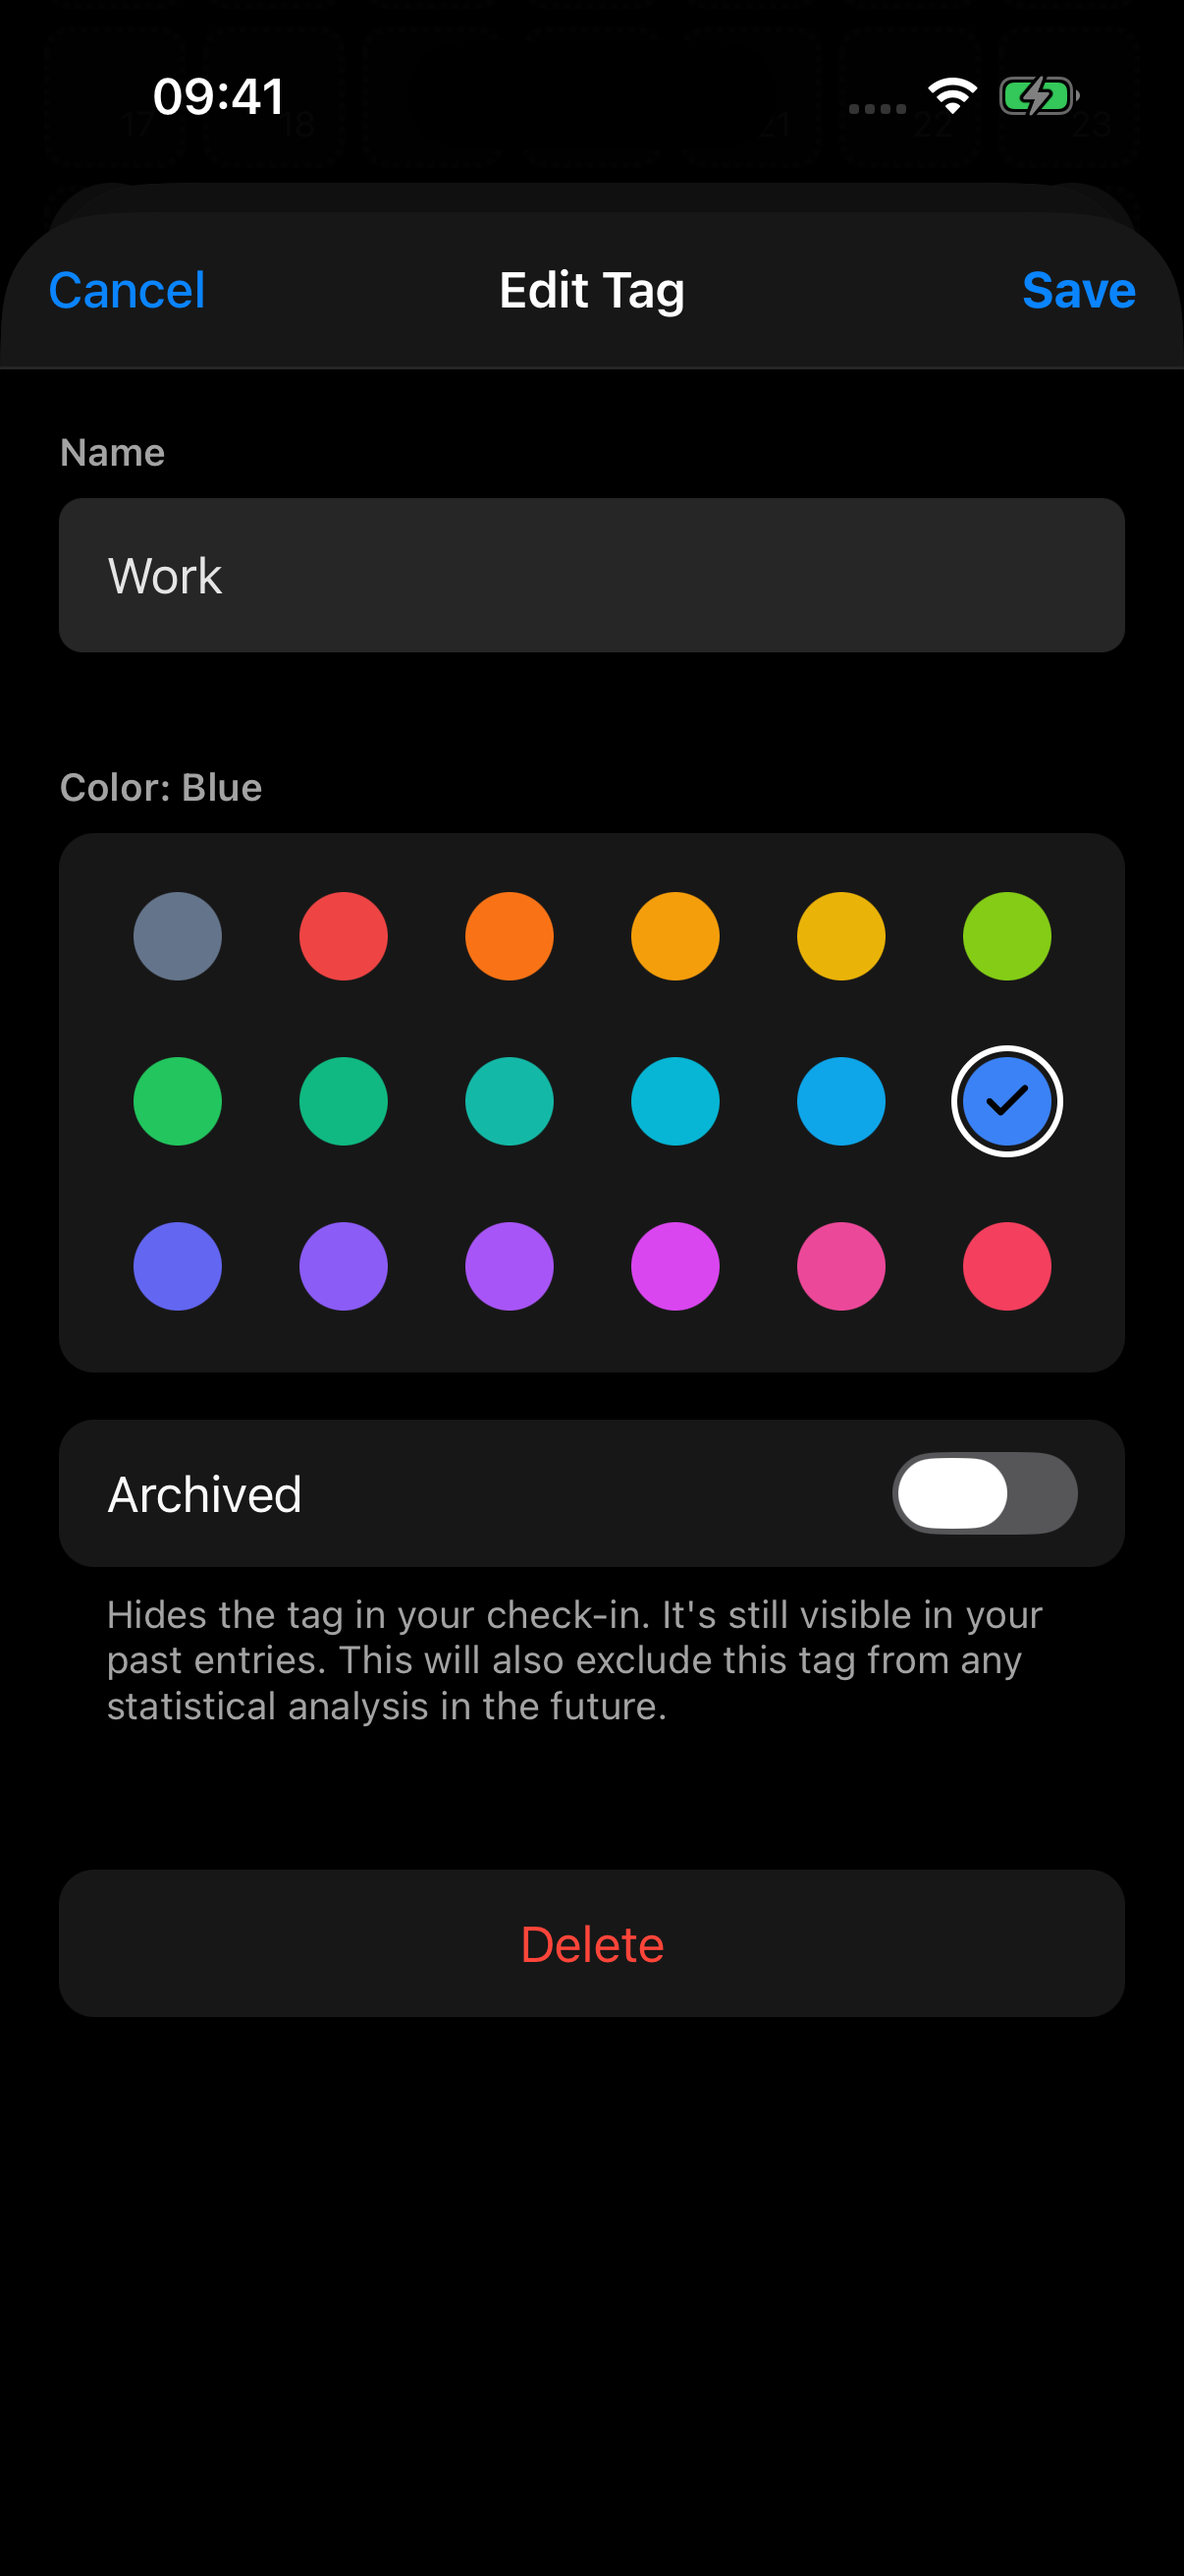
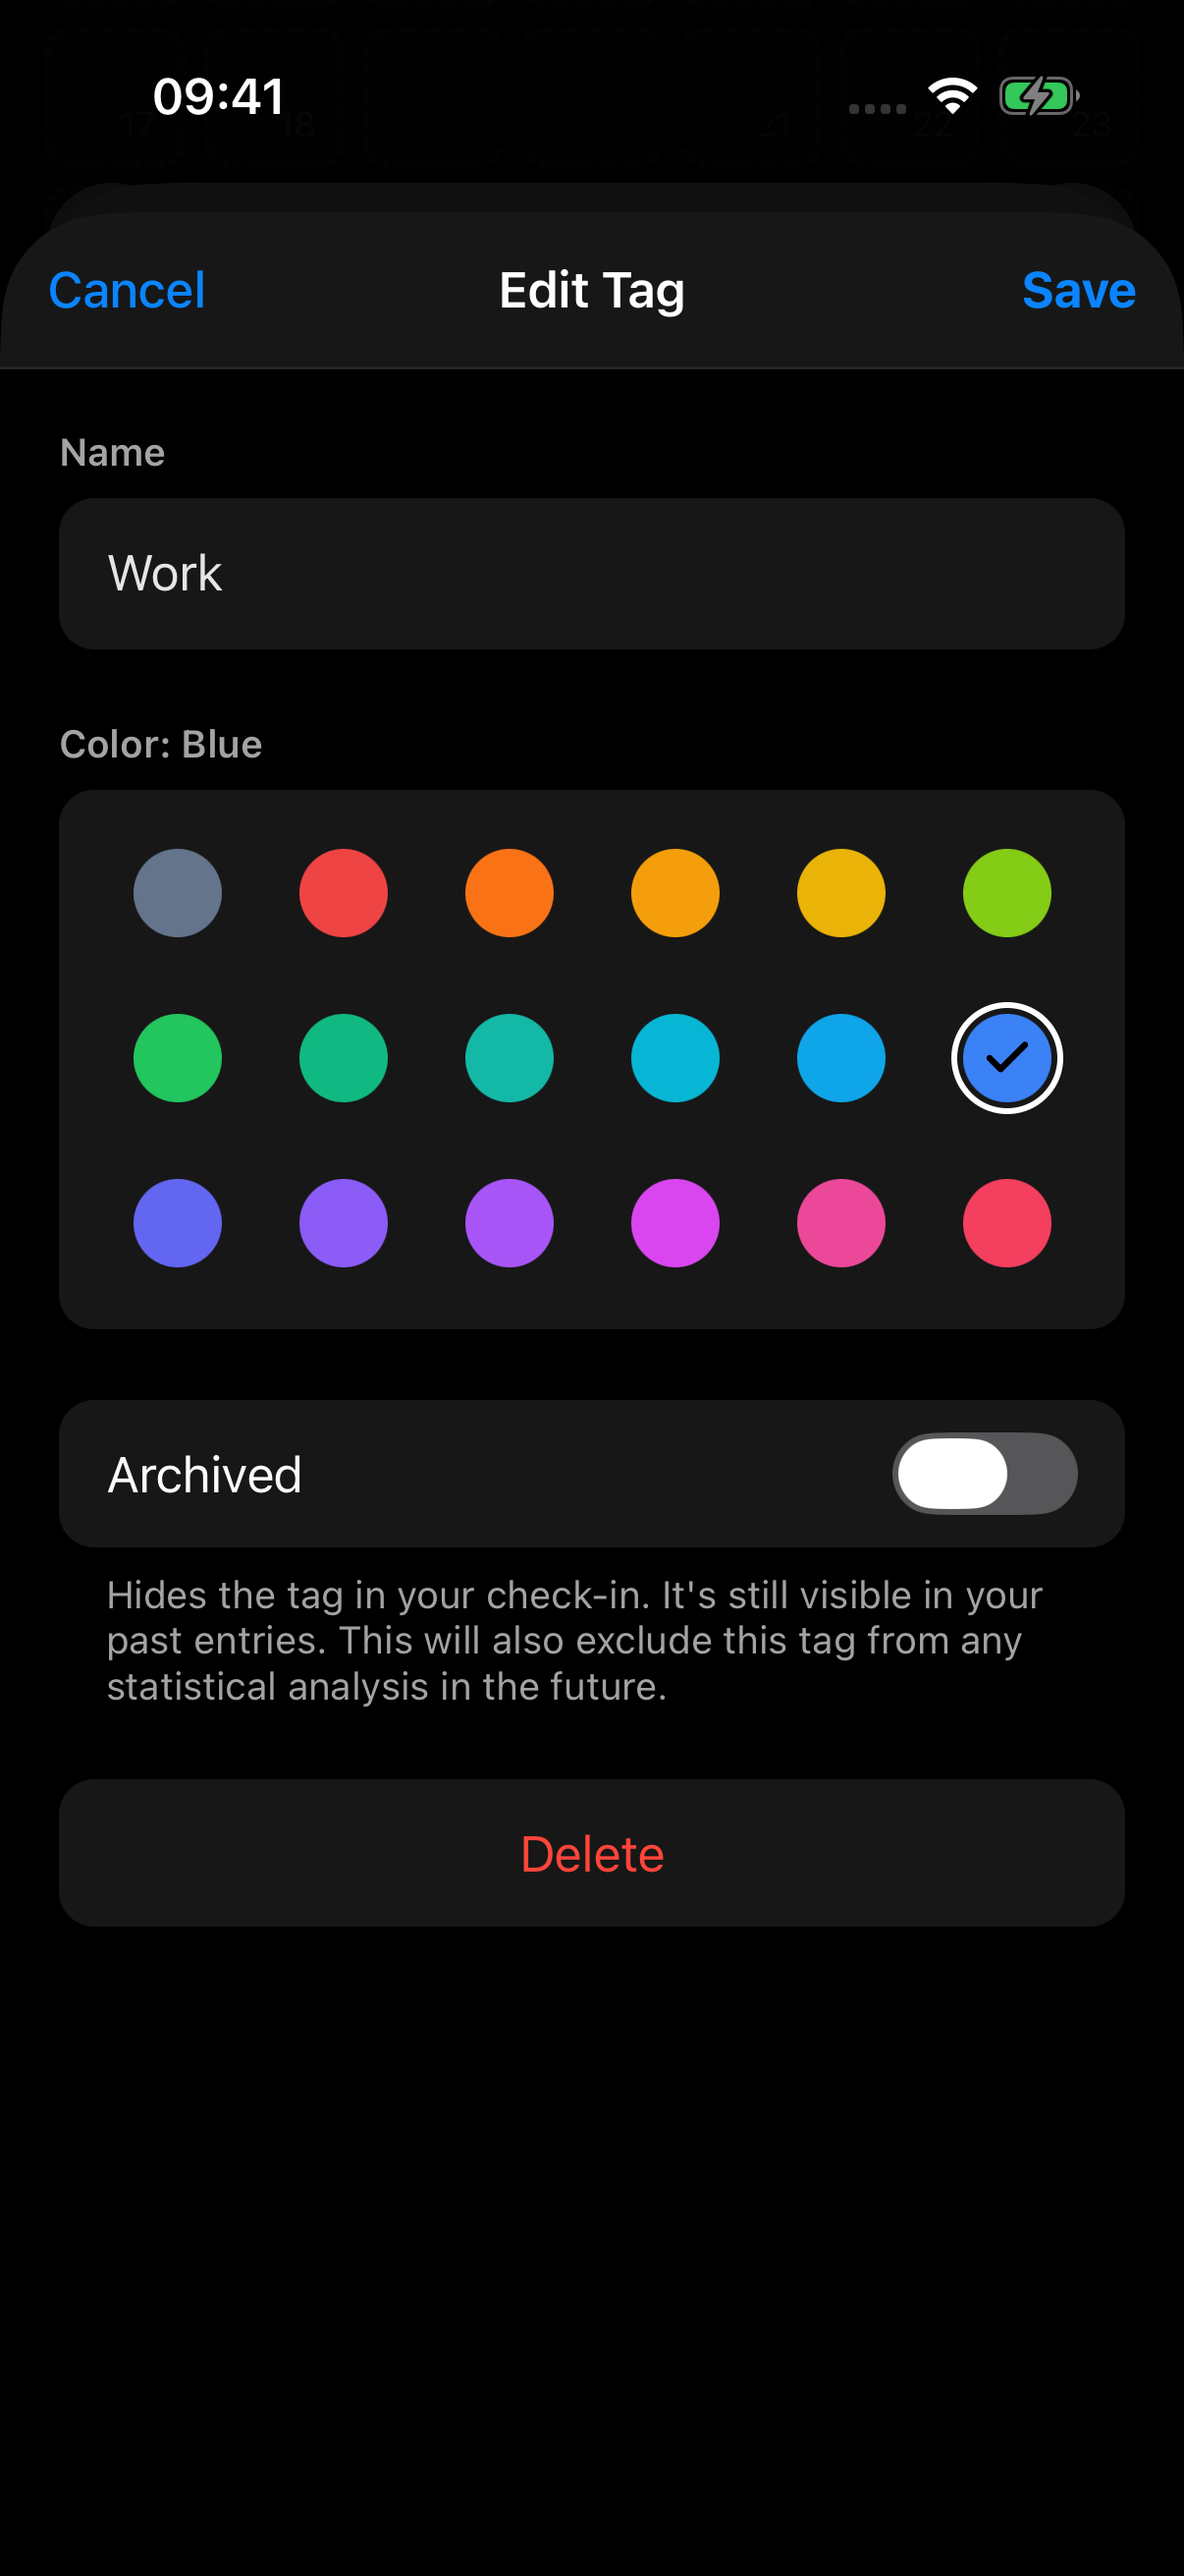
fix(tags): unify tag form surfaces and spacing

diff --git a/src/features/tags/components/TagNameField.tsx b/src/features/tags/components/TagNameField.tsx
@@ -1,14 +1,15 @@
 import { useRef } from "react";
 import { Pressable, Text, TextInput, View } from "react-native";
 import { MAX_TAG_LENGTH, MIN_TAG_LENGTH } from "@/constants/Config";
-import { RADIUS } from "@/constants/Radius";
+import MenuList from "@/components/MenuList";
 import useColors from "@/hooks/useColors";
 import { t } from "@/lib/translation";
 import { isValidTagTitle, shouldShowCounter } from "../tagName";
 
 /**
  * Tag name input with a visible label, an `n/MAX` counter near the limit, and
- * an inline error. Tapping the label focuses the input.
+ * an inline error. Tapping the label focuses the input. The input sits in a
+ * {@link MenuList} so it matches the other form sections.
  */
 const TagNameField = ({
   value,
@@ -23,9 +24,10 @@ const TagNameField = ({
   const colors = useColors();
   const inputRef = useRef<TextInput>(null);
   const hasError = showError && !isValidTagTitle(value);
+  const showCounter = shouldShowCounter(value.length);
 
   return (
-    <View style={{ marginBottom: 16 }}>
+    <View style={{ marginBottom: 24 }}>
       <Pressable
         accessible={false}
         onPress={() => inputRef.current?.focus()}
@@ -42,49 +44,53 @@ const TagNameField = ({
           {t("tags_name_label")}
         </Text>
       </Pressable>
-      <TextInput
-        ref={inputRef}
-        accessibilityLabel={t("tags_name_label")}
-        accessibilityLabelledBy="tag-name-label"
-        testID="tag-name"
-        autoCorrect={false}
-        style={{
-          fontSize: 17,
-          color: colors.textInputText,
-          backgroundColor: colors.textInputBackground,
-          width: "100%",
-          padding: 16,
-          borderRadius: RADIUS.sm,
-        }}
-        placeholder={t("tags_add_placeholder")}
-        placeholderTextColor={colors.textInputPlaceholder}
-        maxLength={MAX_TAG_LENGTH}
-        value={value}
-        onChangeText={onChange}
-      />
+      <MenuList>
+        <TextInput
+          ref={inputRef}
+          accessibilityLabel={t("tags_name_label")}
+          accessibilityLabelledBy="tag-name-label"
+          testID="tag-name"
+          autoCorrect={false}
+          style={{
+            fontSize: 17,
+            color: colors.textInputText,
+            width: "100%",
+            padding: 16,
+          }}
+          placeholder={t("tags_add_placeholder")}
+          placeholderTextColor={colors.textInputPlaceholder}
+          maxLength={MAX_TAG_LENGTH}
+          value={value}
+          onChangeText={onChange}
+        />
+      </MenuList>
       <View
         accessibilityLiveRegion="polite"
         style={{
           flexDirection: "row",
           justifyContent: "space-between",
-          marginTop: 6,
+          marginTop: hasError || showCounter ? 6 : 0,
         }}
       >
-        <Text
-          testID="tag-name-error"
-          style={{ flex: 1, fontSize: 13, color: colors.dangerButtonText }}
-        >
-          {hasError
-            ? t("tags_name_error", {
-                min: MIN_TAG_LENGTH,
-                max: MAX_TAG_LENGTH,
-              })
-            : ""}
-        </Text>
-        {shouldShowCounter(value.length) && (
+        {hasError && (
+          <Text
+            testID="tag-name-error"
+            style={{ flex: 1, fontSize: 13, color: colors.dangerButtonText }}
+          >
+            {t("tags_name_error", {
+              min: MIN_TAG_LENGTH,
+              max: MAX_TAG_LENGTH,
+            })}
+          </Text>
+        )}
+        {showCounter && (
           <Text
             testID="tag-name-counter"
-            style={{ fontSize: 13, color: colors.textSecondary }}
+            style={{
+              marginLeft: "auto",
+              fontSize: 13,
+              color: colors.textSecondary,
+            }}
           >
             {value.length}/{MAX_TAG_LENGTH}
           </Text>

diff --git a/src/features/tags/__tests__/tagForm.tsx b/src/features/tags/__tests__/tagForm.tsx
@@ -53,13 +53,14 @@ describe("tag form", () => {
     const screen = await renderCreate();
     await act(async () => {});
 
-    expect(screen.queryByTestId("tag-name-error")?.props.children).toBe("");
+    expect(screen.queryByTestId("tag-name-error")).toBeNull();
 
     await fireEvent.press(screen.getByTestId("tag-save"));
 
     await waitFor(() => {
-      expect(screen.getByTestId("tag-name-error").props.children).toContain(
-        String(MIN_TAG_LENGTH)
+      expect(screen.getByTestId("tag-name-error")).toHaveTextContent(
+        String(MIN_TAG_LENGTH),
+        { exact: false }
       );
     });
     expect(await storedTitles()).not.toContain("");
@@ -73,7 +74,7 @@ describe("tag form", () => {
     await fireEvent.changeText(screen.getByTestId("tag-name"), "Valid name");
 
     await waitFor(() => {
-      expect(screen.getByTestId("tag-name-error").props.children).toBe("");
+      expect(screen.queryByTestId("tag-name-error")).toBeNull();
     });
   });
 

diff --git a/src/features/tags/screens/TagEdit.tsx b/src/features/tags/screens/TagEdit.tsx
@@ -122,7 +122,7 @@ export const TagEdit = () => {
           />
           <MenuList
             style={{
-              marginTop: 16,
+              marginTop: 24,
             }}
           >
             <MenuListItem
@@ -145,7 +145,7 @@ export const TagEdit = () => {
           <TextInfo>{t("archive_tag_description")}</TextInfo>
 
           {Platform.OS === "ios" ? (
-            <MenuList style={{ marginTop: 32 }}>
+            <MenuList style={{ marginTop: 8 }}>
               <MenuListItem
                 testID="tag-delete"
                 title={
@@ -167,7 +167,7 @@ export const TagEdit = () => {
               testID="tag-delete"
               onPress={() => confirmDelete(tag)}
               style={{
-                marginTop: 32,
+                marginTop: 8,
                 alignSelf: "center",
                 color: colors.dangerButtonText,
               }}
